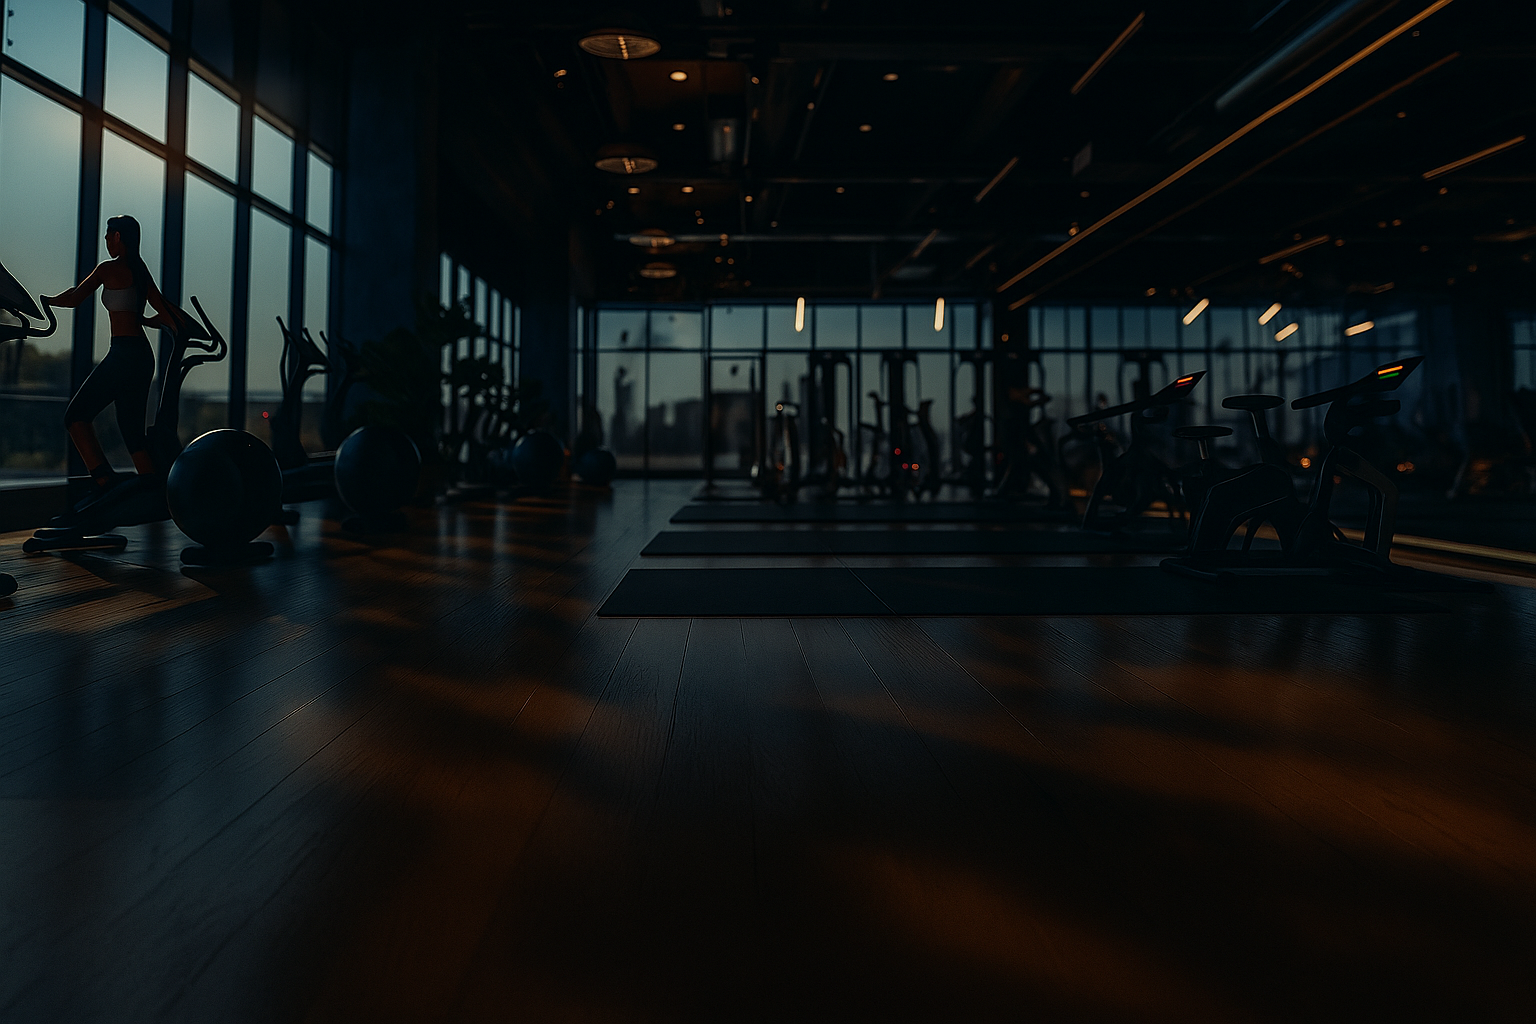
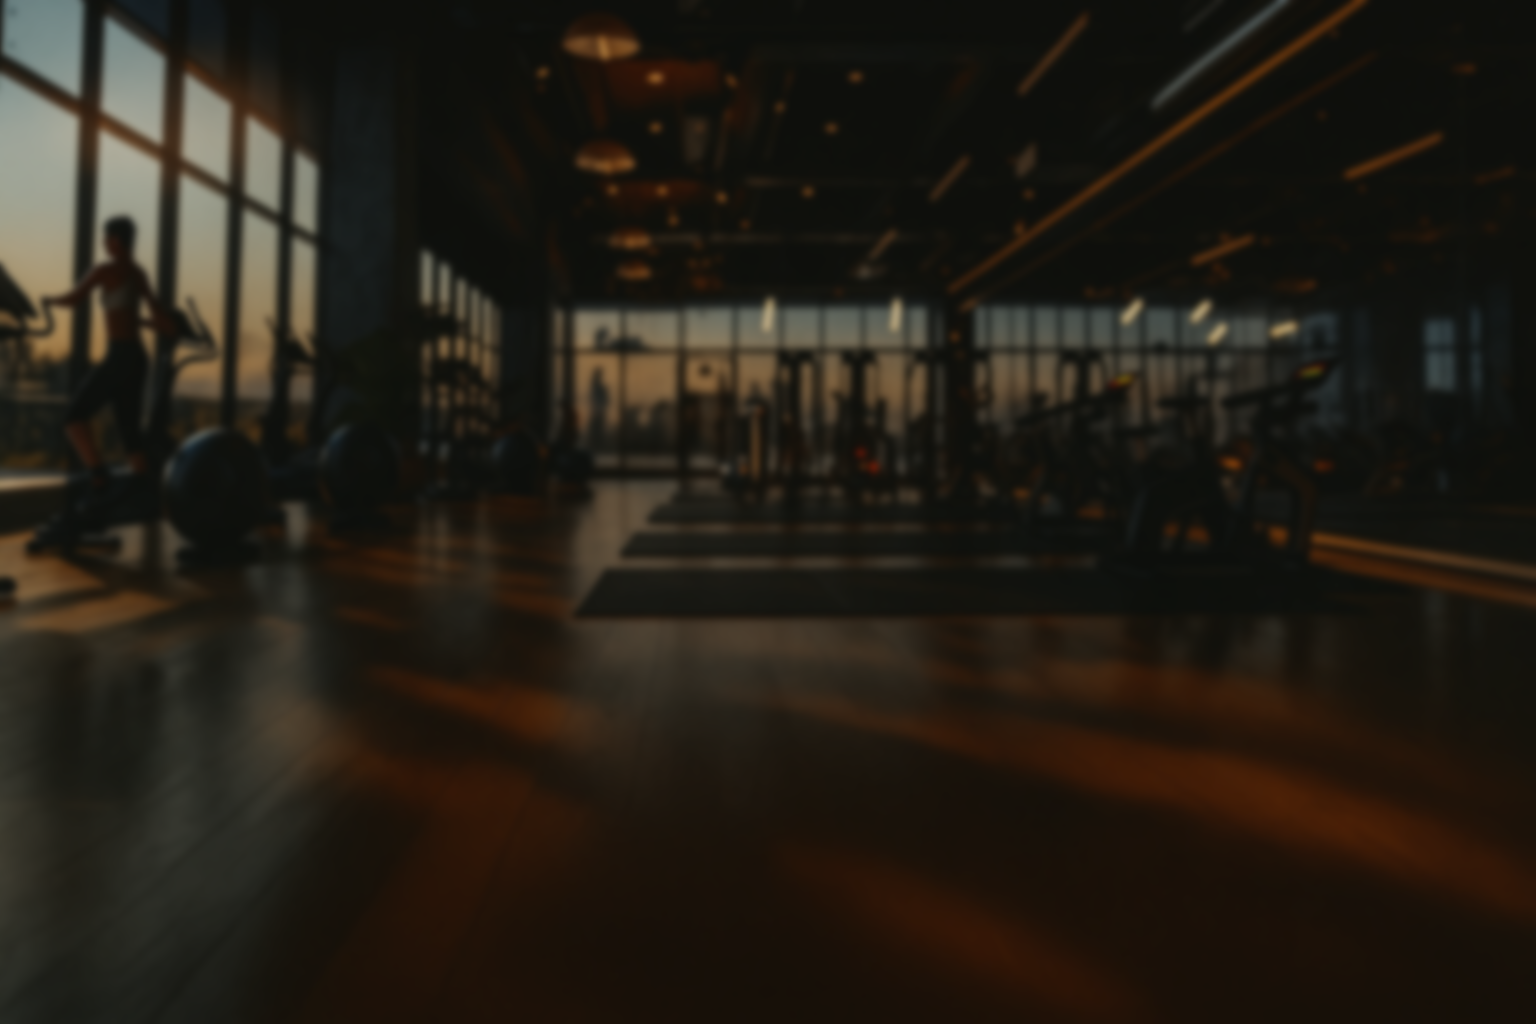
added styling to pages + css

diff --git a/src/main/webapp/resources/css/styles.css b/src/main/webapp/resources/css/styles.css
@@ -1016,7 +1016,9 @@ background-size: 93px 82px;
   background-size: contain;             /* fit entire image */
   background-color: #0f1115;            /* fill letterbox area */
   min-height: calc(100vh - 72px);       /* full screen minus header */
-  padding-bottom: 60px;                  /* give space under the cards */
+  padding-bottom: 60px; 
+  
+                   /* give space under the cards */
 }
 
 /* On narrow phones adj: */
@@ -1027,18 +1029,39 @@ background-size: 93px 82px;
   }
 }
 
-/* THIS SECTION IS FOR MEMBER DASHBOARD - GREY FORMS ADJUSTMENT TO THE BUTTONS BACKGROUND*/
+/* THIS SECTION IS FOR MEMBER DASHBOARD & FOR PURCHASE MEMBERSHIP - GREY FORMS ADJUSTMENT TO THE BUTTONS BACKGROUND*/
 /* translucent panel to match .dash-card look */
-.soft-panel{
+.soft-panel {
   background: rgba(15,17,21,0.90);             
   border: 1px solid rgba(255,255,255,.08);
   border-radius: 14px;
   box-shadow: 0 8px 18px rgba(0,0,0,.25);
-  /* a tiny bit of glassiness (optional) */
   -webkit-backdrop-filter: saturate(120%) blur(2px);
   backdrop-filter: saturate(120%) blur(2px);
+  position: relative; /* Needed for the badge */
 }
 
+/* Highlighted "Most Popular" card */
+.soft-panel.popular {
+  border: 2px solid #28a745;   /* Bright green border */
+  box-shadow: 0 0 20px rgba(40,167,69,0.4);
+  transform: scale(1.05);      /* Slight zoom effect */
+  z-index: 2;
+}
+
+/* Badge styling */
+.soft-panel.popular .badge {
+  position: absolute;
+  top: -14px;
+  left: 50%;
+  transform: translateX(-50%);
+  background-color: #28a745;
+  color: black;
+  padding: 6px 12px;
+  border-radius: 12px;
+  font-weight: bold;
+  font-size: 13px;
+}
 
 .soft-panel .jsf-table{
   background-color: transparent;               
@@ -1102,4 +1125,10 @@ background-size: 93px 82px;
     gap: 8px;
   }
 }
+
+
+/* ===== THIS SECTION IS FOR NONMEMBER DASHBOARD  ===== */
+/* Turn .main-section into a centered 2-column layout
+    */
+
 
